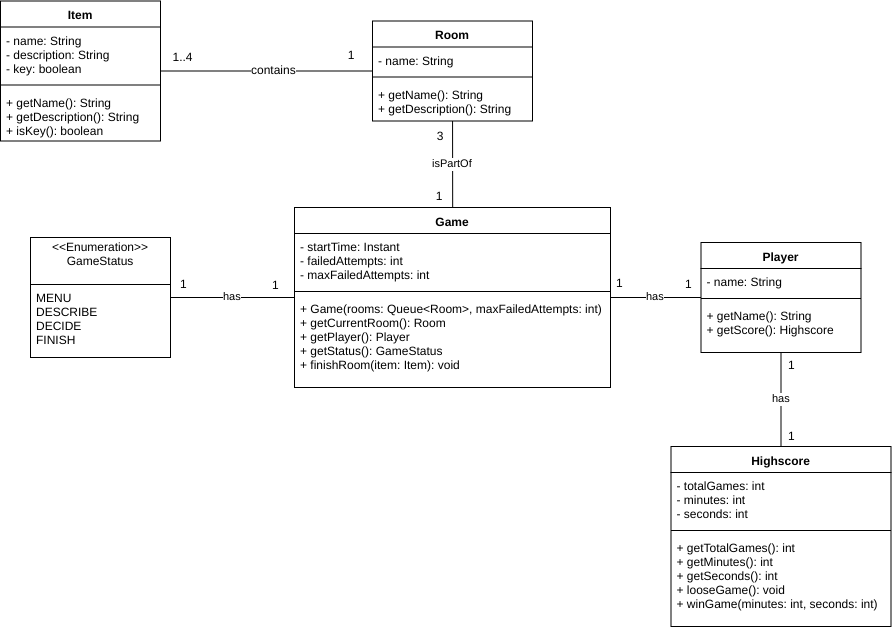
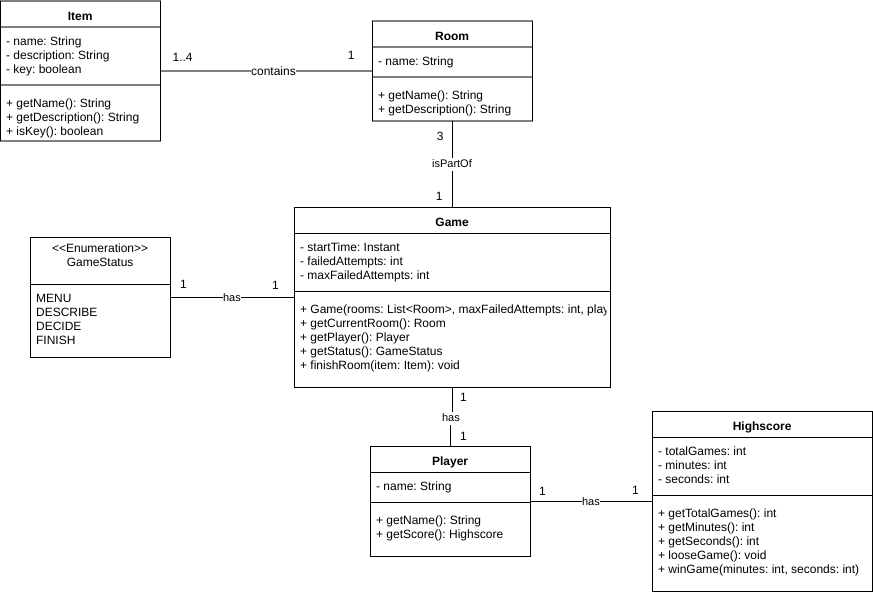
Adapted class diagram

diff --git a/src/main/java/alexasescape/model/Player.java b/src/main/java/alexasescape/model/Player.java
@@ -7,11 +7,6 @@ public class Player {
     private final String name;
     private final Highscore score;
 
-    public Player(String name) {
-        this.name = name;
-        this.score = new Highscore();
-    }
-
     public Player(String name, Highscore score) {
         this.name = name;
         this.score = score;
